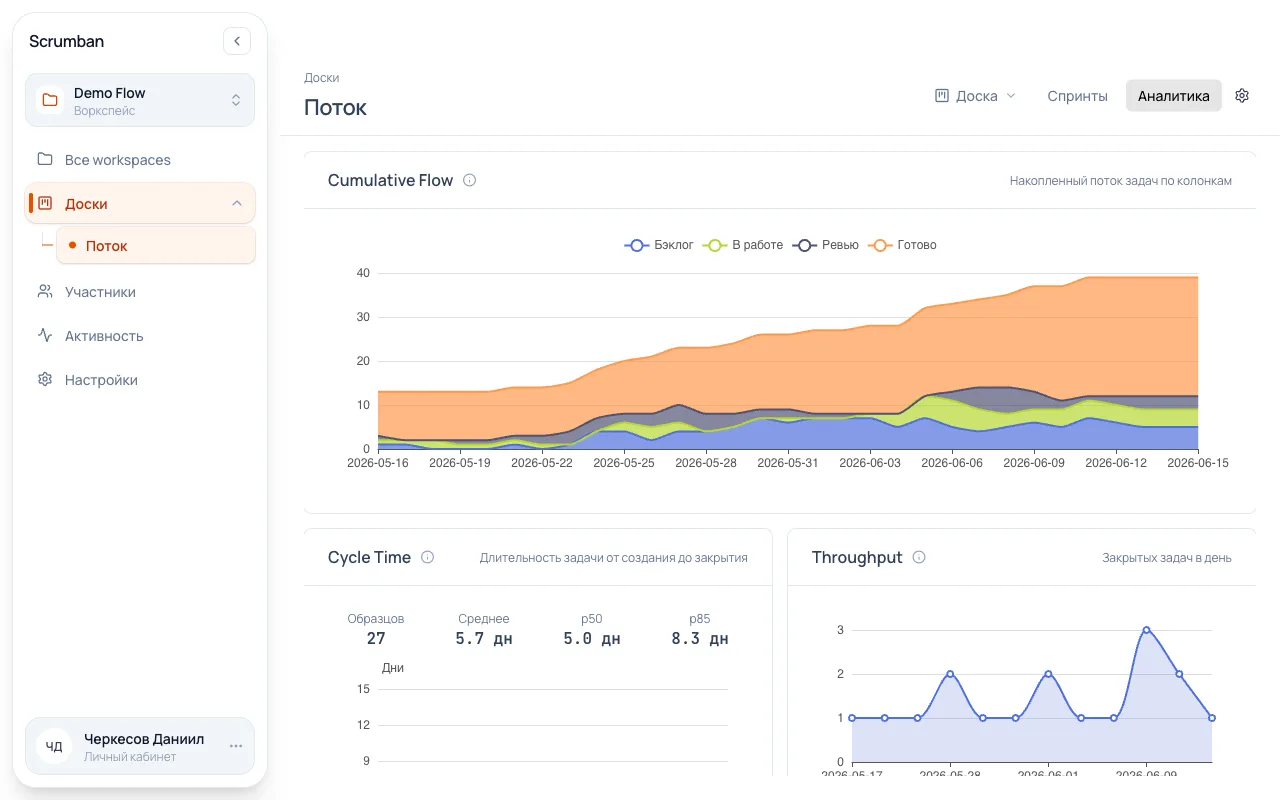
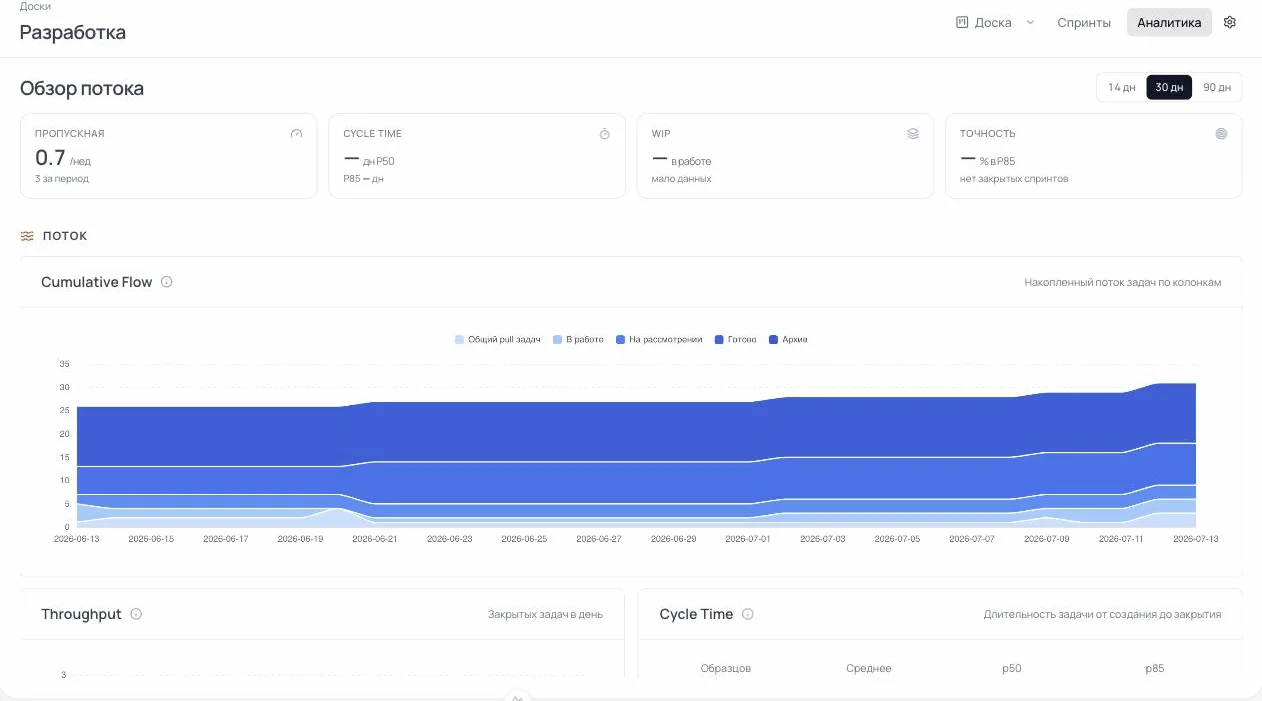
feat(landing): real product screenshots in bento and product cards

diff --git a/app/components/landing/Product.vue b/app/components/landing/Product.vue
@@ -39,12 +39,12 @@ const MINI: MiniFeature[] = [
           <p class="eyebrow">Прогноз сроков</p>
           <div class="pcard__num">87%<span class="pcard__note">вероятность уложиться · пример</span></div>
           <p class="pcard__desc">Monte Carlo по сети зависимостей, критический путь и резервы по задачам. Честное «мало истории», когда данных не хватает.</p>
-          <div class="slot">скриншот: прогноз</div>
+          <img class="shot" src="/landing/forecast.webp" alt="Симулятор Такта: вероятность успеть, P50/P85, критический путь спринта" loading="lazy">
         </article>
         <article class="pcard pcard--b">
           <p class="eyebrow">Аналитика потока</p>
           <p class="pcard__desc pcard__desc--top">CFD, cycle time с перцентилями, throughput. Всё считается из событий перехода задач, а не из ручных оценок.</p>
-          <div class="slot">скриншот: аналитика</div>
+          <img class="shot" src="/landing/analytics.webp" alt="Аналитика Такта: cumulative flow diagram и обзор потока" loading="lazy">
         </article>
       </div>
 

diff --git a/app/assets/css/landing.css b/app/assets/css/landing.css
@@ -103,6 +103,15 @@
     font-family: var(--font-mono); font-size: 12px; color: var(--ink-3);
   }
 
+  & .shot {
+    display: block;
+    width: 100%;
+    border-radius: 16px;
+    border: 1px solid var(--line);
+    background: #fff;
+    box-shadow: 0 8px 28px rgba(17, 17, 16, 0.07);
+  }
+
   /* ── nav ── */
   & .pnav {
     position: fixed; top: 16px; left: 50%; translate: -50% 0;
@@ -267,7 +276,7 @@
   & .bcard--stat { grid-column: span 7; justify-content: center; }
   & .bcard--stat .bcard__big { color: var(--orange); }
   & .bcard--shot { grid-column: span 5; grid-row: span 2; }
-  & .bcard--shot .slot { flex: 1; aspect-ratio: auto; min-height: 220px; }
+  & .bcard--shot .shot { flex: 1; object-fit: cover; object-position: left top; min-height: 220px; }
   & .bcard--dark { grid-column: span 4; background: var(--dark); border: 0; color: #fff; justify-content: center; }
   & .bcard--dark p { color: rgba(255, 255, 255, 0.68); }
   & .bcard--haze { grid-column: span 3; background: linear-gradient(160deg, var(--haze-1), #FFDFC9); border: 0; justify-content: center; }
@@ -339,6 +348,7 @@
   & .pcard__desc { max-width: 46ch; font-size: 15.5px; line-height: 1.6; color: var(--ink-2); }
   & .pcard__desc--top { margin-top: 6px; }
   & .pcard .slot { margin-top: auto; }
+  & .pcard .shot { margin-top: auto; }
 
   & .product__mini {
     display: grid;

diff --git a/app/components/landing/Bento.vue b/app/components/landing/Bento.vue
@@ -13,7 +13,7 @@
         </article>
 
         <article class="bcard bcard--shot">
-          <div class="slot">скриншот: доска</div>
+          <img class="shot" src="/landing/board.webp" alt="Доска Такта: колонки с WIP-лимитами, классы обслуживания, возраст задач" loading="lazy">
           <h3>Kanban и спринты вместе</h3>
           <p>Спринты задают ритм, поток даёт предсказуемость. Две методологии работают вместе, а не вместо.</p>
         </article>
